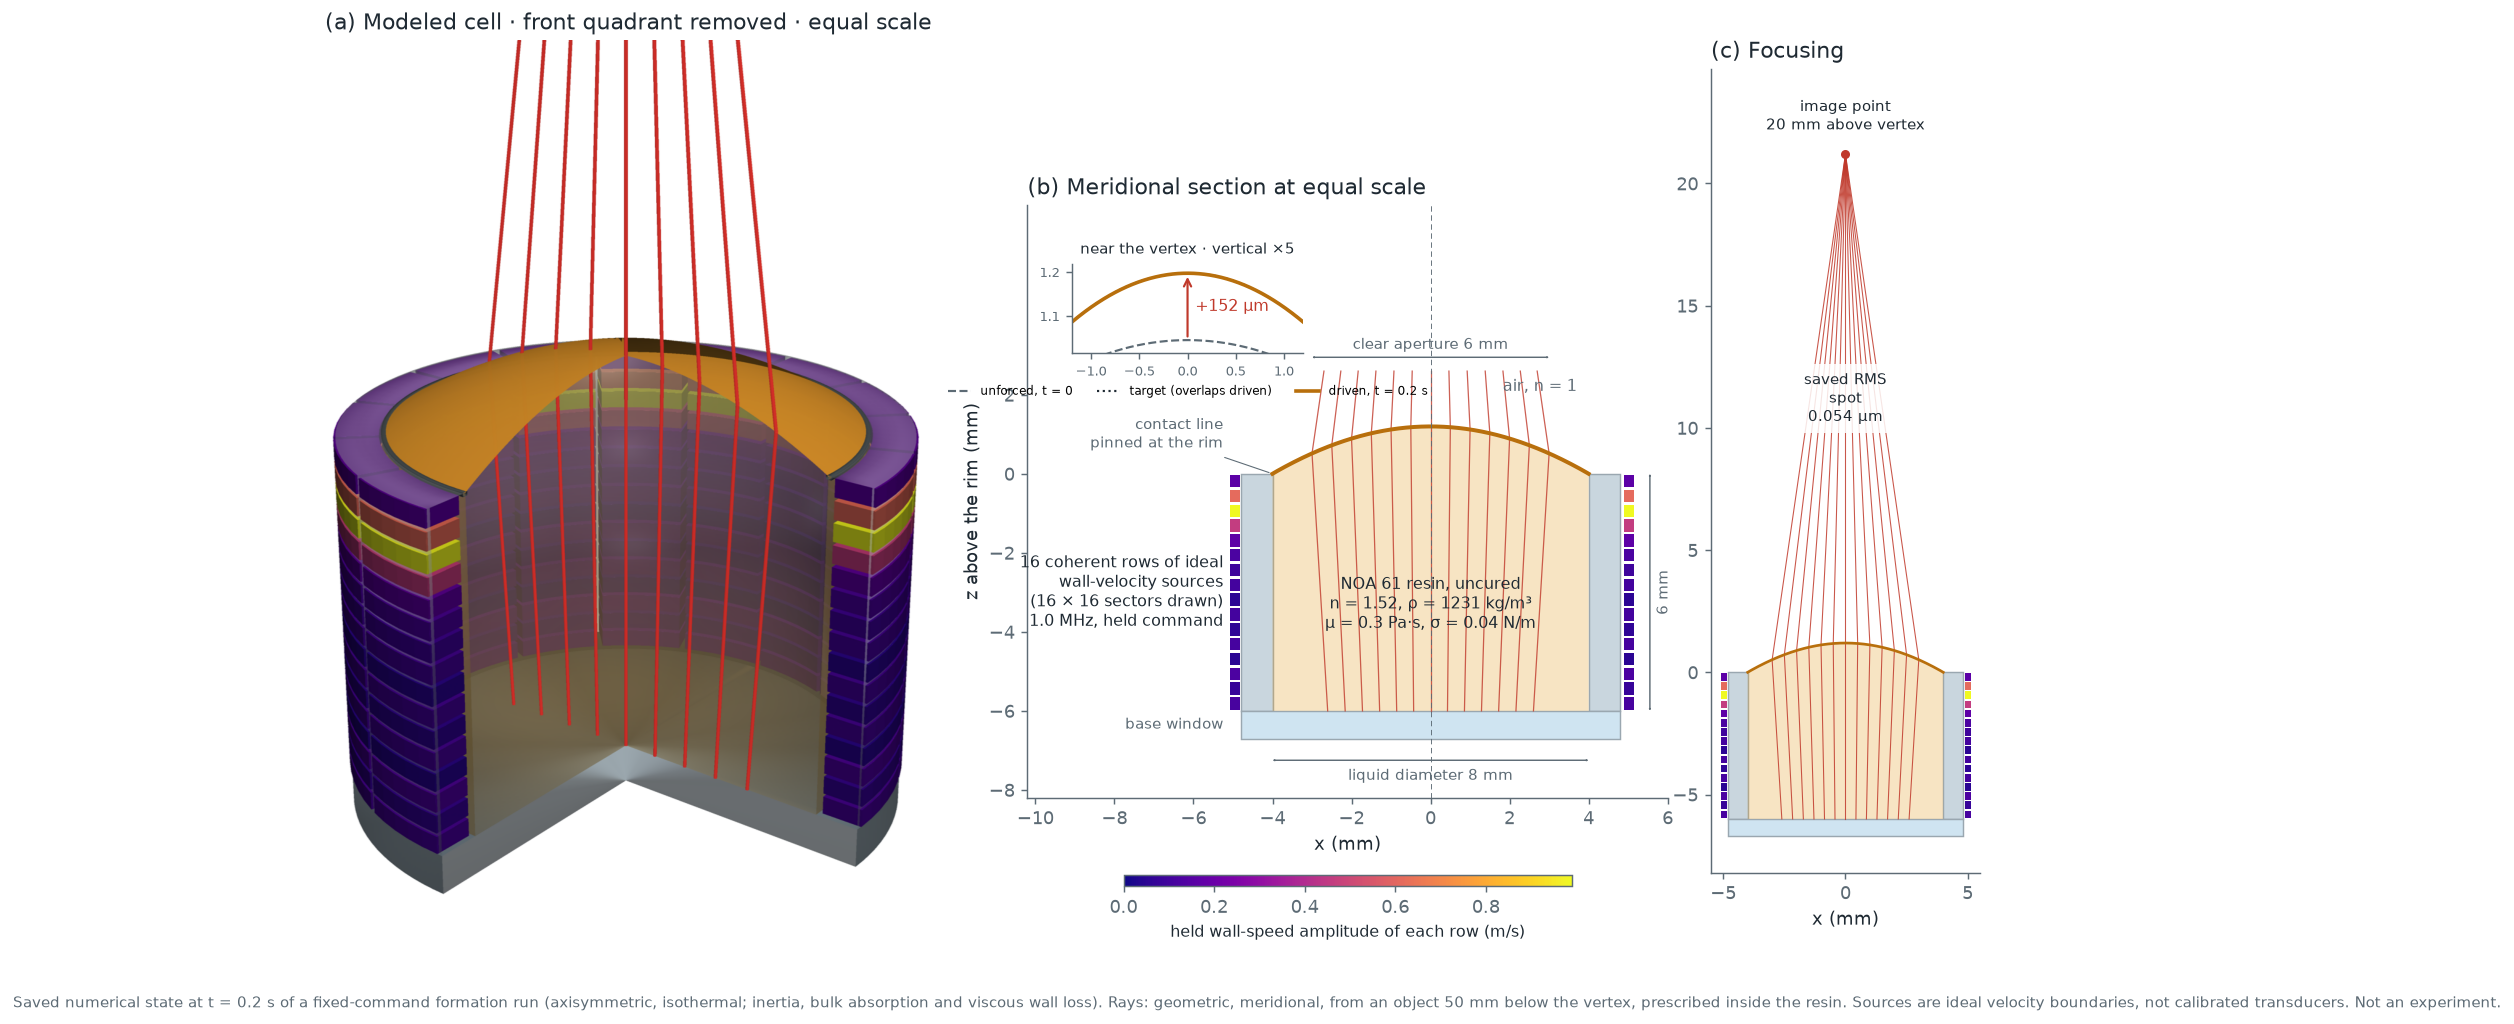
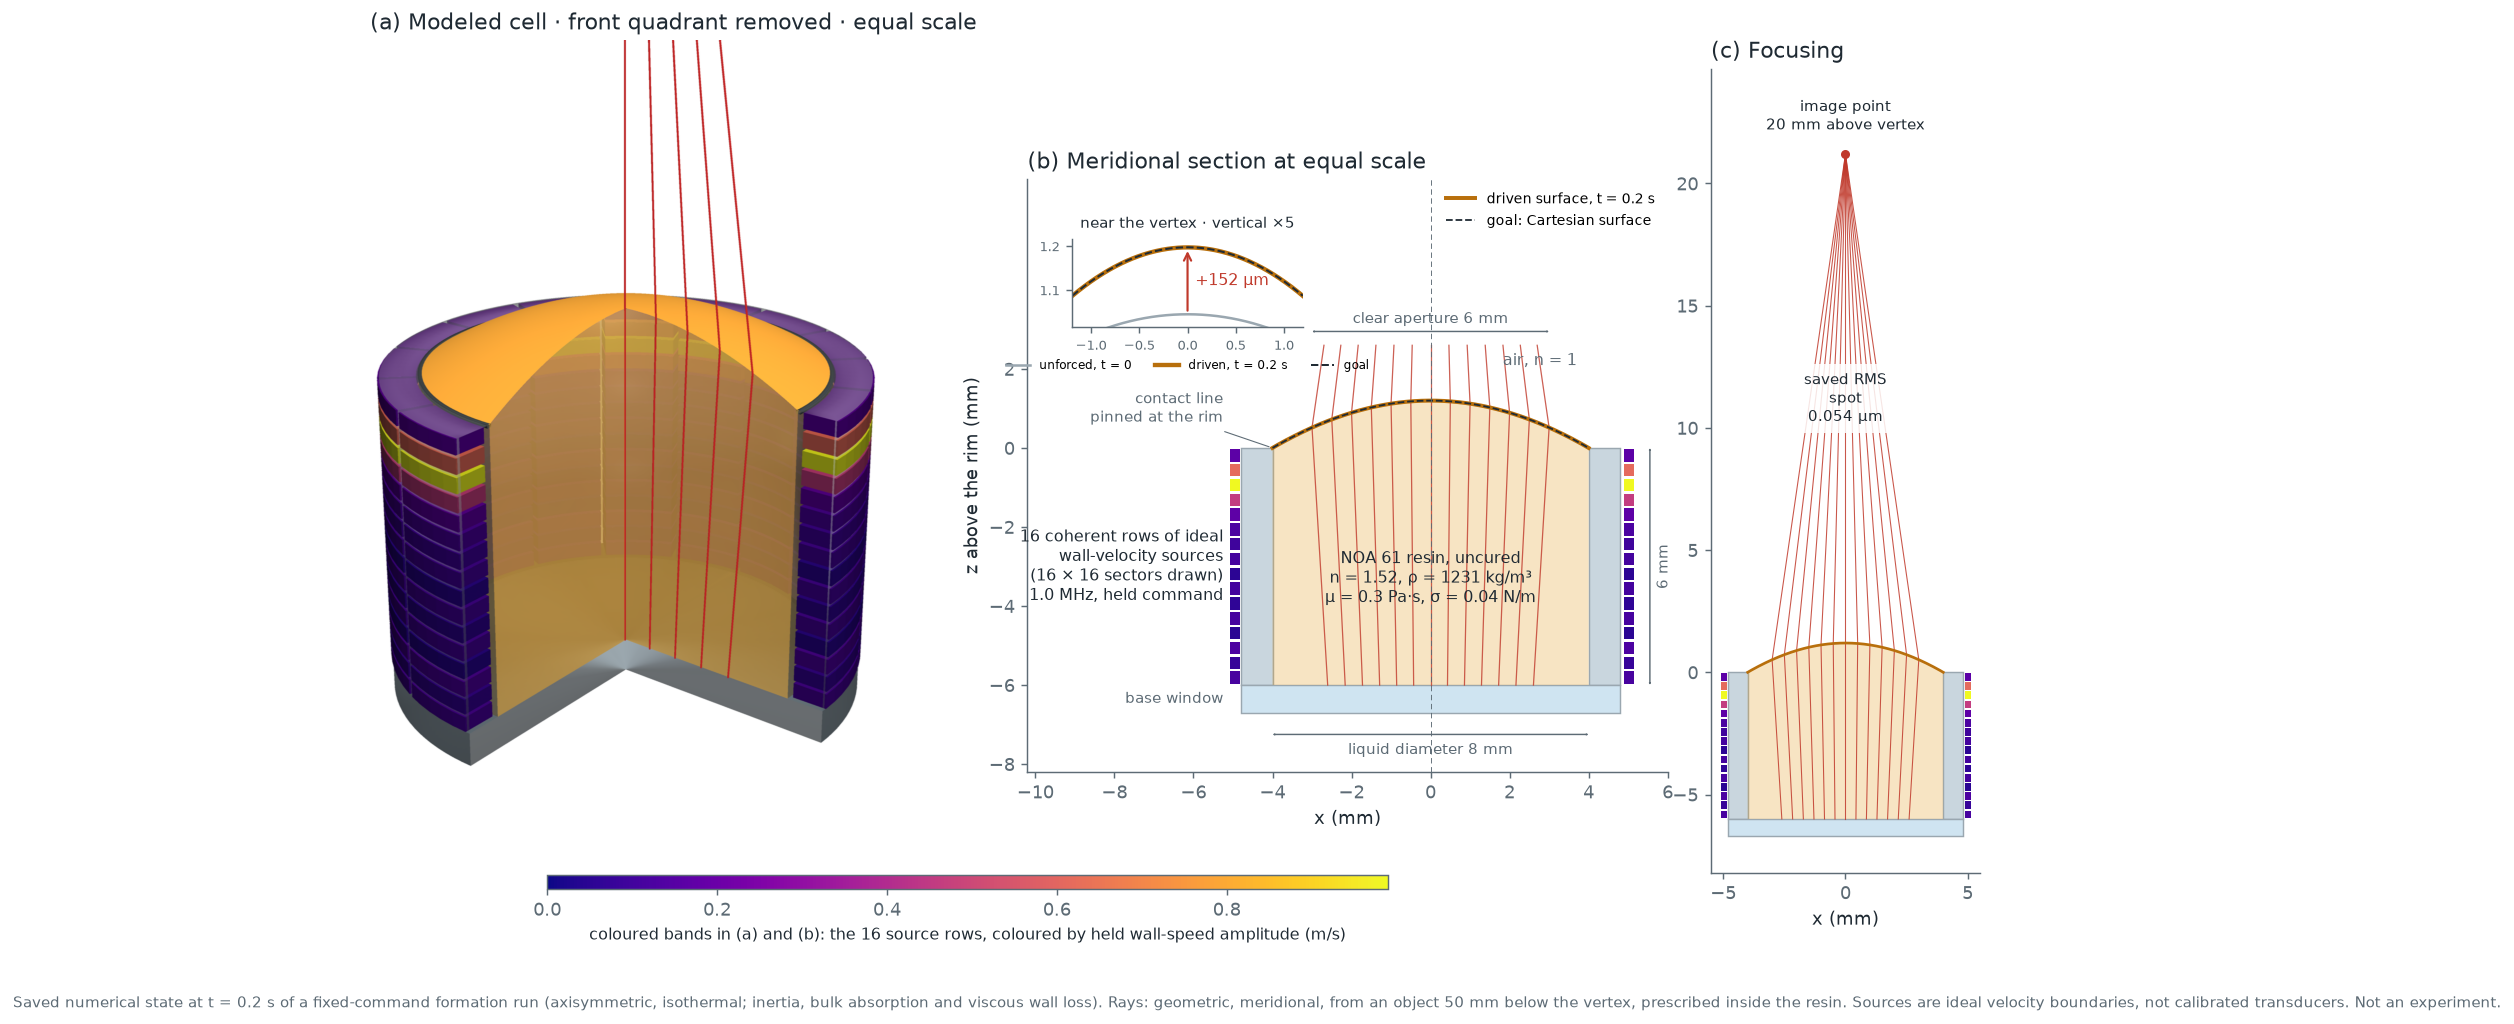
Show goal surfaces, clean 3D cutaways and add the two-face spot diagram
Dashed lines now denote the Cartesian goal; the single-interface cutaway no
longer draws a coincident liquid face over the surface; the two-face cell is
cut in half with fluids inside the source ring, thin rays confined to the cell,
and a fixed-image-plane spot diagram.

Changed region(s): [[0.1241, 0.0, 0.6826, 0.9375], [0.5895, 0.1875, 0.6516, 0.2188]]

diff --git a/tools/render_readme_figures.py b/tools/render_readme_figures.py
@@ -154,10 +154,22 @@ def render_single_3d(cfg, space, coefficients, drive, path, size=(1500, 1500)):
     glass = {"smooth_shading": True, "specular": 0.7, "specular_power": 50}
     p.add_mesh(cut_front_quadrant(meshes["cylinder"]), color=GLASS, opacity=0.45, **glass)
     p.add_mesh(cut_front_quadrant(meshes["base"]), color="#b9d7ea", opacity=0.7, **glass)
-    p.add_mesh(cut_front_quadrant(meshes["liquid"]), color=RESIN, opacity=0.30,
+    liquid = meshes["liquid"]
+    body = liquid.extract_cells(np.flatnonzero(liquid.cell_centers().points[:, 2] < -1e-6))
+    p.add_mesh(cut_front_quadrant(body.extract_surface()), color=RESIN, opacity=0.25,
                smooth_shading=True)
-    p.add_mesh(cut_front_quadrant(meshes["surface"]), color="#e39a2d", opacity=0.97,
-               smooth_shading=True, specular=1.0, specular_power=80)
+    surface = cut_front_quadrant(meshes["surface"]).extract_surface().compute_normals(
+        auto_orient_normals=True)
+    p.add_mesh(surface, color="#f0a53a", smooth_shading=True, specular=0.8,
+               specular_power=60, ambient=0.25)
+    # Solid meridional caps on the two cut half-planes (x >= 0, y = 0) and (x = 0, y <= 0).
+    rr = np.linspace(0, cfg.radius_m, 200)
+    top_mm = cfg.radius_m * space.evaluate(coefficients, rr / cfg.radius_m) * 1e3
+    strip = np.stack([np.full_like(top_mm, -cfg.depth_m * 1e3), top_mm - 0.004])
+    rho = np.broadcast_to(rr * 1e3, strip.shape)
+    for x, y in ((rho, np.zeros_like(rho)), (np.zeros_like(rho), -rho)):
+        cap = pv.StructuredGrid(x[..., None].copy(), y[..., None].copy(), strip[..., None].copy())
+        p.add_mesh(cap, color=RESIN, opacity=0.55, ambient=0.45, smooth_shading=True)
     p.add_mesh(cut_front_quadrant(meshes["rim"]), color="#4d565d", smooth_shading=True)
     array = meshes["array"]
     array.cell_data["amplitude"] = np.abs(drive)[row_ids]
@@ -176,8 +188,11 @@ def render_single_3d(cfg, space, coefficients, drive, path, size=(1500, 1500)):
         out = det[k] - hit[k]
         b = hit[k] + (top - hit[k, 1]) / out[1] * out
         pts = np.array([a, hit[k], b]) * 1e3
-        p.add_mesh(ray_tube(np.c_[pts[:, 0], np.zeros(3), pts[:, 1]]), color="#e0312b",
-                   smooth_shading=True, ambient=0.55, diffuse=0.6)
+        if pts[1, 0] < 0:
+            continue  # the x < 0 half of the fan lies inside the kept solid
+        xyz = np.c_[pts[:, 0], np.full(3, -0.03), pts[:, 1]]
+        p.add_mesh(ray_tube(xyz, 0.018), color="#d62728", smooth_shading=True, ambient=0.6,
+                   diffuse=0.5)
     p.camera_position = [(21, -27, 12), (0, 0, -1.4), (0, 0, 1)]
     p.camera.view_angle = 24
     p.screenshot(path)
@@ -245,7 +260,10 @@ def single_interface_figure():
         b = hit[k] + (vertex + 0.0014 - hit[k, 1]) / out[1] * out
         ax.plot(np.array([a[0], hit[k, 0], b[0]]) * mm, np.array([a[1], hit[k, 1], b[1]]) * mm,
                 color=RAY, lw=0.7, alpha=0.8)
-    ax.plot(signed, mirror(h1), color="#b86f0c", lw=2.2)
+    ax.plot(signed, mirror(h1), color="#b86f0c", lw=2.2, label="driven surface, t = 0.2 s")
+    ax.plot(signed, mirror(target), color=INK, lw=1.0, ls="--",
+            label="goal: Cartesian surface")
+    ax.legend(loc="upper right", fontsize=8, frameon=False)
     ax.axvline(0, color=MUTED, lw=0.5, ls=(0, (6, 4)))
     ax.text(0, -3.3, f"NOA 61 resin, uncured\nn = {n1}, ρ = {cfg.density_kg_m3:.0f} kg/m³\n"
             f"μ = {cfg.viscosity_pa_s} Pa·s, σ = {cfg.surface_tension_n_m} N/m",
@@ -276,18 +294,18 @@ def single_interface_figure():
            aspect="equal", xlabel="x (mm)", ylabel="z above the rim (mm)")
     ax.set_title("(b) Meridional section at equal scale", loc="left", color=INK, fontsize=12)
     ax.set_yticks(range(-8, 3, 2))
-    bar = fig.colorbar(plt.cm.ScalarMappable(norm, cmap), ax=ax, orientation="horizontal",
-                       fraction=0.03, pad=0.09, aspect=40, shrink=0.7)
-    bar.set_label("held wall-speed amplitude of each row (m/s)", color=INK, fontsize=9)
+    bar = fig.colorbar(plt.cm.ScalarMappable(norm, cmap), ax=[ax3, ax], orientation="horizontal",
+                       fraction=0.03, pad=0.12, aspect=60, shrink=0.6)
+    bar.set_label("coloured bands in (a) and (b): the 16 source rows, coloured by held "
+                  "wall-speed amplitude (m/s)", color=INK, fontsize=9)
     # Vertex inset: the lift the sound produces.
     inset = ax.inset_axes([0.07, 0.75, 0.36, 0.15])
     window = radius <= 1.2e-3
     rr = np.r_[-radius[window][:0:-1], radius[window]] * mm
     cut = lambda h: np.r_[h[window][:0:-1], h[window]] * mm
-    inset.plot(rr, cut(h0), color=MUTED, ls="--", lw=1.2, label="unforced, t = 0")
-    inset.plot(rr, cut(target), color=INK, ls=":", lw=1.2,
-               label="target (overlaps driven)")
-    inset.plot(rr, cut(h1), color="#b86f0c", lw=2, label="driven, t = 0.2 s")
+    inset.plot(rr, cut(h0), color="#9aa7b0", lw=1.4, label="unforced, t = 0")
+    inset.plot(rr, cut(h1), color="#b86f0c", lw=2.4, label="driven, t = 0.2 s")
+    inset.plot(rr, cut(target), color=INK, ls="--", lw=1.1, label="goal")
     inset.annotate("", (0, h1[0] * mm), (0, h0[0] * mm),
                    arrowprops={"arrowstyle": "->", "color": RAY, "lw": 1.2})
     inset.text(0.08, (h0[0] + h1[0]) / 2 * mm, f"+{(h1[0] - h0[0]) * 1e6:.0f} µm",
@@ -401,17 +419,18 @@ def clip_path(path, z_top):
     return np.vstack([path[:-1], a + s * (b - a)])
 
 
-def render_pair_3d(cfg, space, q, drive, regions, paths, path, size=(1500, 1400)):
+def render_pair_3d(cfg, space, q, drive, regions, paths, path, size=(1500, 1350)):
+    """Half cell (y >= 0): the full meridional section faces the camera."""
     mm = 1e3
-    _first, _last = 0.0, 1.5 * np.pi
+    half = {"first": 0.0, "last": np.pi}
     r = np.linspace(0, cfg.radius_m, 220)
+    inner = r * 0.985  # fluids drawn just inside the source ring at the wall
     levels = np.asarray(cfg.levels_m)
     faces = [levels[j + 1] + space.evaluate(q[j], r) for j in range(2)]
     p = pv.Plotter(off_screen=True, window_size=size)
     p.set_background("white")
     p.enable_anti_aliasing("ssaa")
     p.enable_lightkit()
-    turn = lambda m: m
     amp = np.abs(drive)
     cmap = plt.get_cmap(SOURCE_MAP)
     for reg in regions:
@@ -424,41 +443,32 @@ def render_pair_3d(cfg, space, q, drive, regions, paths, path, size=(1500, 1400)
         else:
             rr = np.array([reg["r_min_m"], reg["r_max_m"]]) * mm
             zz = np.full(2, reg["z_min_m"] * mm)
-        opacity = 1.0 if active else 0.25
-        if reg["boundary"] == "top":
-            opacity = min(opacity, 0.55)
-        p.add_mesh(turn(revolve(rr, zz)), color=colour, opacity=opacity, smooth_shading=True,
-                   specular=0.25)
-    # Fluids: translucent volumes between the saved interfaces.
+        opacity = 1.0 if active else 0.35
+        p.add_mesh(revolve(rr, zz, **half), color=colour, opacity=opacity, specular=0.2)
+    # Fluid layers: solid colour on the cut plane, faint translucent volume behind it.
+    signed = np.r_[-inner[::-1], inner] * mm
     bounds = [np.full_like(r, levels[0]), faces[0], faces[1], np.full_like(r, levels[3])]
     for j, colour in enumerate([WATER, RESIN, WATER]):
         low, high = bounds[j] * mm, bounds[j + 1] * mm
-        rr = np.r_[r, r[::-1]] * mm
-        zz = np.r_[high, low[::-1]]
-        outline = revolve(rr, zz)
-        p.add_mesh(turn(outline), color=colour, opacity=0.18 if j != 1 else 0.42,
-                   smooth_shading=True)
-        del outline
-        # Cap both cut half-planes with this layer's meridional section.
-        strip = np.stack([low, high])
-        rho = np.broadcast_to(r * mm, strip.shape)
-        for x, y in ((rho, np.zeros_like(rho)), (np.zeros_like(rho), -rho)):
-            cap = pv.StructuredGrid(x[..., None].copy(), y[..., None].copy(),
-                                    strip[..., None].copy())
-            p.add_mesh(cap, color=colour, opacity=0.55 if j != 1 else 0.75,
-                       smooth_shading=True, ambient=0.35)
-    for j, z in enumerate(faces):
-        p.add_mesh(turn(revolve(r * mm, z * mm, sectors=180)), color="#c9771a", opacity=0.6,
-                   smooth_shading=True, specular=1.0, specular_power=90)
-    # Rays lie in the two cut half-planes (theta = 0 and theta = 270 degrees).
+        strip = np.stack([np.r_[low[::-1], low], np.r_[high[::-1], high]])
+        x = np.broadcast_to(signed, strip.shape)
+        cap = pv.StructuredGrid(x[..., None].copy(), np.zeros_like(x)[..., None],
+                                strip[..., None].copy())
+        p.add_mesh(cap, color=colour, opacity=0.95, ambient=0.5, diffuse=0.6)
+    for z in faces[1:]:
+        # Only the upper face is seen from above; the section shows both.
+        p.add_mesh(revolve(inner * mm, z * mm, sectors=180, **half), color="#e8b25c",
+                   opacity=0.9, smooth_shading=True, specular=0.8, specular_power=60)
+    for z in faces:
+        line = np.c_[signed, np.full_like(signed, -0.01), np.r_[z[::-1], z] * mm]
+        p.add_mesh(pv.lines_from_points(line).tube(radius=0.02), color="#8a4b06")
+    # Rays on the cut plane, from the lower cap to 0.6 mm past the upper cap.
     for ray in paths:
-        clipped = clip_path(ray, levels[3] + 0.0035) * mm
-        rho, z = np.abs(clipped[:, 0]), clipped[:, 1]
-        for xyz in (np.c_[rho, np.zeros_like(rho), z], np.c_[np.zeros_like(rho), -rho, z]):
-            xyz = xyz + np.array([0.02, -0.02, 0.0])  # just in front of the cap
-            tube = pv.lines_from_points(xyz).tube(radius=0.016, n_sides=12)
-            p.add_mesh(tube, color="#e0312b", ambient=0.55, diffuse=0.6, smooth_shading=True)
-    p.camera_position = [(17, -17, 9.0), (0, 0, 0.2), (0, 0, 1)]
+        seg = clip_path(ray, levels[3] + 0.0006) * mm
+        xyz = np.c_[seg[:, 0], np.full(len(seg), -0.03), seg[:, 1]]
+        p.add_mesh(pv.lines_from_points(xyz).tube(radius=0.012, n_sides=10), color="#d62728",
+                   ambient=0.7, diffuse=0.4)
+    p.camera_position = [(10, -19, 14), (0, 0, -0.3), (0, 0, 1)]
     p.camera.view_angle = 26
     p.screenshot(path)
     p.close()
@@ -467,11 +477,11 @@ def render_pair_3d(cfg, space, q, drive, regions, paths, path, size=(1500, 1400)
 def pair_figure():
     cfg, space, q, drive, regions, targets, material, report, trace, field = pair_state()
     mm = 1e3
-    launch = np.linspace(-cfg.clear_radius_m, cfg.clear_radius_m, 11)
+    launch = np.linspace(-cfg.clear_radius_m, cfg.clear_radius_m, 9)
     paths = pair_ray_paths(cfg, space, q, material, targets, np.abs(launch))
     paths[:, :, 0] *= np.sign(launch + 1e-30)[:, None]
     render = FIGURES / "_pair_render.png"
-    render_pair_3d(cfg, space, q, drive, regions, paths[launch > 0][::1], render)
+    render_pair_3d(cfg, space, q, drive, regions, paths, render)
     levels = np.asarray(cfg.levels_m) * mm
     R = cfg.radius_m * mm
     r = np.linspace(0, cfg.radius_m, 1601)
@@ -485,12 +495,12 @@ def pair_figure():
     n = material["indices"]
     rho = cfg.density_kg_m3
 
-    fig = plt.figure(figsize=(17.5, 8.4))
-    grid = fig.add_gridspec(1, 3, width_ratios=[1.05, 1.0, 0.78], wspace=0.10)
+    fig = plt.figure(figsize=(21, 8.4))
+    grid = fig.add_gridspec(1, 4, width_ratios=[1.05, 1.0, 0.78, 0.72], wspace=0.26)
     ax3 = fig.add_subplot(grid[0])
     ax3.imshow(autocrop(plt.imread(render)))
     ax3.set_axis_off()
-    ax3.set_title("(a) Three-fluid cell · quadrant removed · equal scale",
+    ax3.set_title("(a) Three-fluid cell · front half removed · equal scale",
                   loc="left", color=INK, fontsize=12)
     note = {"fontsize": 9, "color": INK}
 
@@ -520,8 +530,8 @@ def pair_figure():
     for j in range(2):
         ax.plot(signed, mirror(faces[j]), color="#b86f0c", lw=2)
     for ray in paths:
-        seg = clip_path(ray, cfg.levels_m[3] + 0.0012) * mm
-        ax.plot(seg[:, 0], seg[:, 1], color=RAY, lw=0.7, alpha=0.85)
+        seg = clip_path(ray, cfg.levels_m[3] + 0.0009) * mm
+        ax.plot(seg[:, 0], seg[:, 1], color=RAY, lw=0.8, alpha=0.9)
     ax.axvline(0, color=MUTED, lw=0.5, ls=(0, (6, 4)))
     ax.text(-R + 0.35, levels[0] + 0.55, f"water\nn = {n[0]}, ρ = {rho[0]:.0f} kg/m³",
             ha="left", **note)
@@ -561,8 +571,8 @@ def pair_figure():
         inset.plot(r[window] * mm, (faces[j][window] - cfg.levels_m[j + 1]) * 1e6,
                    color="#b86f0c", lw=1.6, label="driven" if j == 0 else None)
         inset.plot(r[window] * mm, (goal[j][window] - cfg.levels_m[j + 1]) * 1e6, color=INK,
-                   ls=":", lw=1.1, label="Cartesian target" if j == 0 else None)
-    inset.axhline(0, color=MUTED, lw=0.6, ls="--", label="unforced (flat)")
+                   ls="--", lw=1.0, label="goal (Cartesian)" if j == 0 else None)
+    inset.axhline(0, color="#9aa7b0", lw=0.9, label="unforced (flat)")
     inset.set_title("sag over the clear aperture (µm)", fontsize=8.5, color=INK)
     inset.tick_params(labelsize=7)
     inset.set_xlabel("radius (mm)", fontsize=7.5)
@@ -598,6 +608,18 @@ def pair_figure():
     peak = float(np.max(np.abs(field["pressure"]))) / 1e6
     cb.set_label(f"acoustic pressure (MPa); scale saturates, peak {peak:.0f} MPa", color=INK,
                  fontsize=9)
+    axs = fig.add_subplot(grid[3])
+    spots = trace["spots_m"] * 1e6
+    axs.scatter(spots[:, 0], spots[:, 1], s=3, color=RAY, alpha=0.45, lw=0)
+    axs.add_patch(plt.Circle((0, 0), 0.5, fill=False, color="#2e8b57", ls="--", lw=1.1))
+    axs.text(0.36, 0.40, "0.5 µm\nacceptance", color="#2e8b57", fontsize=8.5)
+    lost = int((~trace["transmitted"]).sum())
+    axs.set(xlim=(-0.65, 0.65), ylim=(-0.65, 0.65), aspect="equal",
+            xlabel="detector x (µm)", ylabel="detector y (µm)")
+    axs.set_title("(d) Spot at the image plane", loc="left", color=INK, fontsize=12)
+    axs.set_xlabel(f"detector x (µm)\n{len(spots) - lost} of {len(spots)} rays transmitted; "
+                   f"max radius {trace['max_radius_m'] * 1e6:.3f} µm")
+    axs.set_box_aspect(1)
     errors = np.array(report["mean_pupil_max_error_m"]) * 1e9
     fig.text(0.01, 0.012,
              f"Saved stationary design-grid state (104 surface elements, {len(regions)} ideal "
@@ -658,7 +680,7 @@ def formation_animation(width_px=1150):
         h = heights[k]
         ax.add_patch(Polygon(np.c_[np.r_[signed, R, -R], np.r_[mirror(h), -depth, -depth]],
                              color=RESIN, alpha=0.30, lw=0))
-        ax.plot(signed, mirror(heights[0]), color=MUTED, lw=0.9, ls="--")
+        ax.plot(signed, mirror(target), color=INK, lw=1.0, ls="--")
         d, hit, det, _ = meridional_rays(radius, h, z_obj, launch, cfg.refractive_index,
                                          cfg.image_refractive_index, z_det)
         for j in range(len(launch)):
@@ -669,11 +691,12 @@ def formation_animation(width_px=1150):
                     color=RAY, lw=0.7, alpha=0.85)
         ax.plot(signed, mirror(h), color="#b86f0c", lw=2.2)
         ax.text(0, -3.2, "NOA 61 resin", ha="center", fontsize=9, color=INK)
-        ax.text(-R - wall - 0.4, -depth / 2, "16 source rows\nheld command\nfrom t = 0",
+        ax.text(-R - wall - 0.4, -depth / 2, "16 source rows\n(colour: held\namplitude)\n"
+                "command held\nfrom t = 0",
                 ha="right", va="center", fontsize=8.5, color=INK)
         ax.set(xlim=(-R - 3.6, R + 1.2), ylim=(-depth - base - 0.4, target[0] * mm + 4.6),
                aspect="equal", xlabel="x (mm)", ylabel="z above the rim (mm)")
-        ax.set_title("Cell section, equal scale · dashed: unforced surface", loc="left",
+        ax.set_title("Cell section, equal scale · dashed: goal (Cartesian surface)", loc="left",
                      fontsize=10, color=INK)
         # Height error across the pupil.
         ae = fig.add_subplot(grid[0, 1])

diff --git a/README.md b/README.md
@@ -29,14 +29,14 @@ rendering or a small frozen inverse residual is not a verified physical lens.
 *Single-interface cell (study S01), from the saved state at 0.2 s. (a) Cutaway
 of the declared components: wall, base window, NOA 61 liquid, pinned rim and the
 16 coherent rows of ideal wall-velocity sources, coloured by held amplitude.
-(b) Section at equal scale; the inset shows the 152 µm acoustic lift of the
-vertex. (c) Rays traced through the saved surface to the image point 20 mm above
+(b) Section at equal scale; dashed lines are the goal (Cartesian) surface, and
+the inset shows the 152 µm acoustic lift of the vertex. (c) Rays traced through the saved surface to the image point 20 mm above
 the vertex.*
 
 ![Recorded forward formation of the single-interface surface with evolving height error and geometric spot](figures/interface-formation-and-spots.gif)
 
 *Fixed-command formation from the unforced surface, from all 321 saved ALE states
-(0–200 ms). The section, rays, pupil height error and fixed-detector spot update
+(0–200 ms). The section (dashed: goal surface), rays, pupil height error and fixed-detector spot update
 with the displayed physical time. Playback runs about 180× slower than real time
 during formation and about 40× slower afterwards. The run ends at 228.5 nm
 maximum height error, above the 10 nm goal.
@@ -47,8 +47,8 @@ maximum height error, above the 10 nm goal.
 *Two-face cell (study S04): NOA 61 between two water layers in a sealed 8 mm
 cylinder, held by 448 ideal source regions at 3.6 MHz. (a) Cutaway with both
 faces and rays. (b) Section with fluids, source amplitudes and the face sags
-compared with the Cartesian targets. (c) One instant of the recomputed harmonic
-pressure. This is a stationary design-grid state: its height and ray-coverage
+against the dashed Cartesian goals. (c) One instant of the recomputed harmonic
+pressure. (d) Geometric spot of 4001 rays at the fixed image plane. This is a stationary design-grid state: its height and ray-coverage
 gates fail, and fixed-command refinement is unfinished.
 [Emitter study](studies/S04-emitter-synthesis/study.md).*
 
